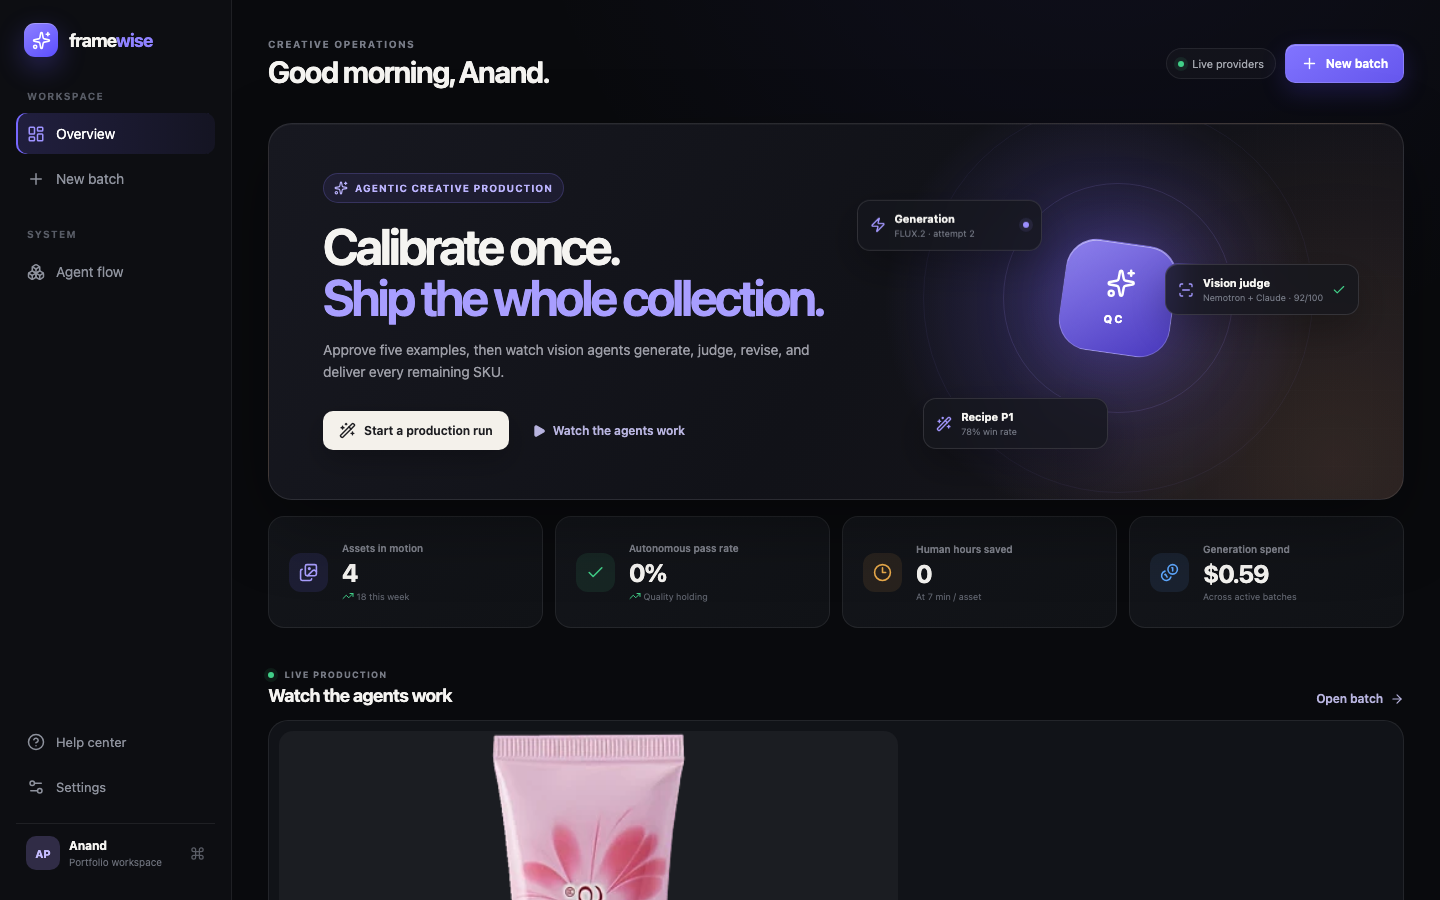
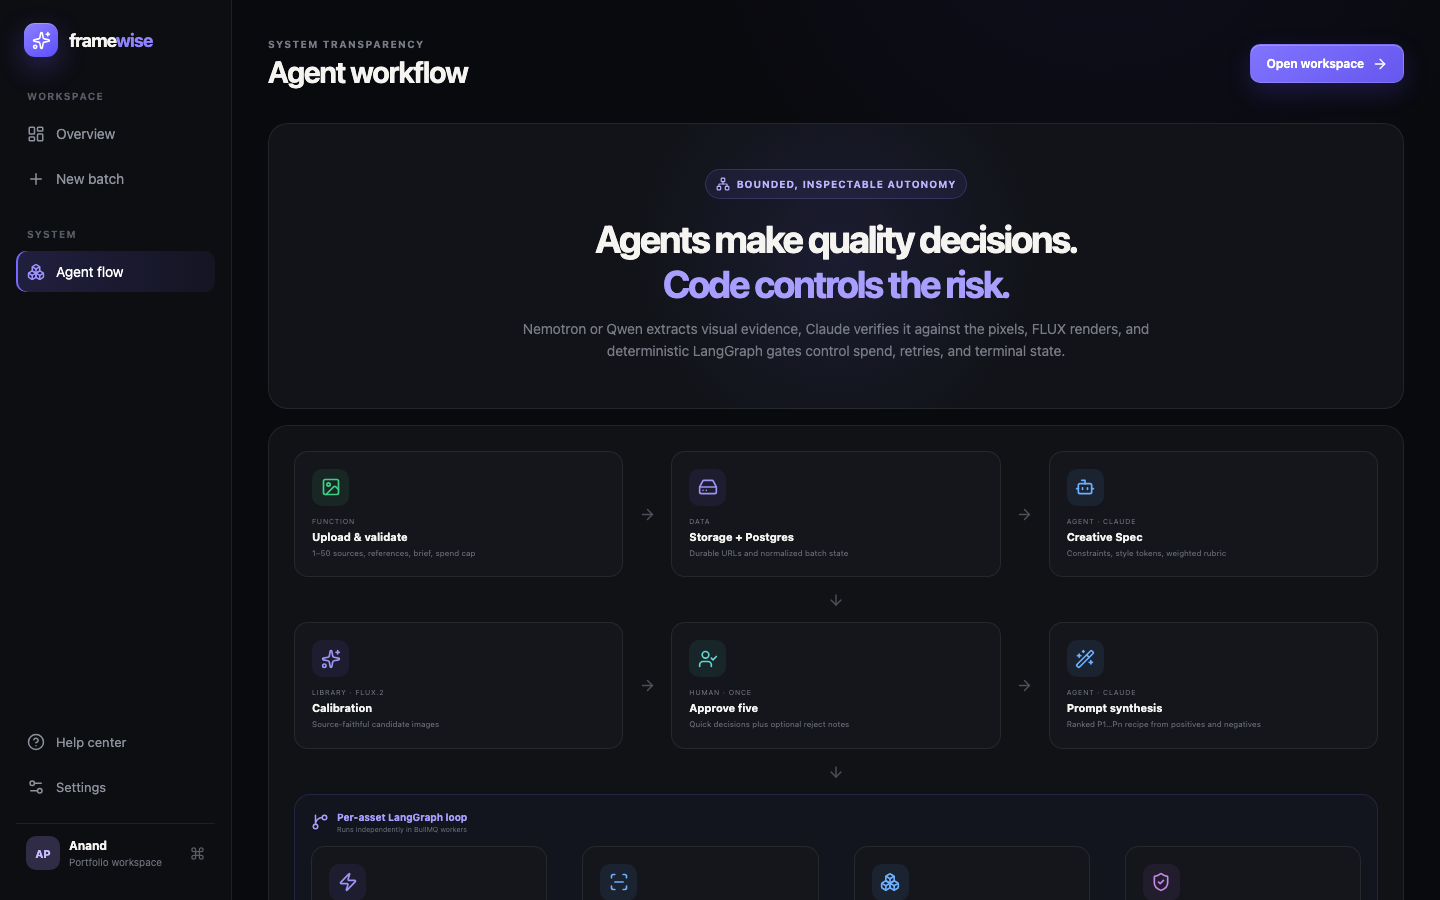
Projects v2: ALS first, repo-grounded copy for all cards, new screenshots, Jhalak live

diff --git a/index.html b/index.html
@@ -395,23 +395,34 @@ footer{border-top:1px solid var(--line);padding:44px 0 56px;margin-top:20px}
   <div class="proj-grid">
 
     <div class="proj">
+      <div class="shot"><img src="assets/shots/agentic-learning-studio.png" alt="Agentic Learning Studio — interactive mental-map lesson view" loading="lazy"><span class="live-dot">LIVE</span></div>
+      <div class="proj-body">
+        <h3>Agentic Learning Studio</h3>
+        <div class="role">Multi-Agent RAG Engine for Interactive AI Lessons</div>
+        <p>Replaces video courses with zoomable "mental map" lessons on agentic AI — 146 free interactive lessons and counting — generated by a LangGraph pipeline (profiler → retriever → architect → composer) over tiered Claude models. The model emits only Zod-validated blueprint JSON while a deterministic renderer produces all HTML, grounded in a Supabase pgvector store with hybrid retrieval and rank fusion. Runs as a real business: credit metering, Lemon Squeezy checkout with HMAC-verified webhooks, Langfuse tracing and self-healing lesson builds.</p>
+        <div class="tags"><span class="tag">LangGraph</span><span class="tag">pgvector RAG</span><span class="tag">Tiered Claude models</span><span class="tag">Langfuse</span></div>
+        <div class="proj-links"><a class="plink" href="https://agentic-learning-studio.onrender.com" target="_blank" rel="noopener">Visit live <svg viewBox="0 0 24 24"><path d="M7 17 17 7M7 7h10v10"/></svg></a></div>
+      </div>
+    </div>
+
+    <div class="proj">
       <div class="shot"><img src="assets/shots/geo-radar-mcp.png" alt="GetCited — AI visibility platform screenshot" loading="lazy"><span class="live-dot">LIVE</span></div>
       <div class="proj-body">
         <h3>GetCited</h3>
-        <div class="role">AI Visibility (GEO) Platform + MCP Server</div>
-        <p>Measures a brand's visibility across AI answer engines — a real multi-LLM panel (Claude, Perplexity, Gemini/Llama-class) reports share of voice, citation share and sentiment against the questions buyers actually ask. Then turns the numbers into a costed, trackable action plan with confidence-rated projections. Ships its own MCP server so agents can query it directly.</p>
-        <div class="tags"><span class="tag">Multi-LLM panel</span><span class="tag">Evals</span><span class="tag">MCP server</span><span class="tag">Next.js</span></div>
+        <div class="role">Agentic GEO Platform — AI Citation Radar to Costed Plans</div>
+        <p>Benchmarks whether AI assistants (Claude, Perplexity, Gemini, Groq) recommend and cite a brand, then converts the gap into a costed, committed action plan — a greedy-knapsack allocator matches tactics to real budget and person-hours, grounded in crawled competitor-citation evidence. Runs three ways: a streaming agent chat with tool calls, a self-hosted-OAuth MCP connector installable straight into claude.ai, and BYOK self-serve with AES-GCM key storage — all with per-run cost caps and DOCX/PDF/Excel plan exports.</p>
+        <div class="tags"><span class="tag">Multi-LLM panel</span><span class="tag">MCP + OAuth</span><span class="tag">Vercel AI SDK</span><span class="tag">Next.js + Supabase</span></div>
         <div class="proj-links"><a class="plink" href="https://geo-radar-mcp.onrender.com" target="_blank" rel="noopener">Visit live <svg viewBox="0 0 24 24"><path d="M7 17 17 7M7 7h10v10"/></svg></a></div>
       </div>
     </div>
 
     <div class="proj">
-      <div class="shot"><img src="assets/shots/creative-qc-agent.png" alt="Framewise — agentic creative production screenshot" loading="lazy"><span class="live-dot">LIVE</span></div>
+      <div class="shot"><img src="assets/shots/creative-qc-agent.png" alt="Framewise — agent workflow architecture view" loading="lazy"><span class="live-dot">LIVE</span></div>
       <div class="proj-body">
         <h3>Framewise</h3>
-        <div class="role">Agentic Creative Production at Scale</div>
-        <p>"Calibrate once, ship the whole collection." Approve five example creatives, then vision agents generate, judge, revise and deliver every remaining SKU — a generation model paired with an LLM-as-judge QC loop (vision scoring per attempt), backed by a background worker for batch runs. Tracks autonomous pass rate, human hours saved and generation spend per batch.</p>
-        <div class="tags"><span class="tag">Vision agents</span><span class="tag">LLM-as-judge</span><span class="tag">Batch worker</span><span class="tag">Image gen</span></div>
+        <div class="role">Self-QCing AI Image Production with a Human Calibration Gate</div>
+        <p>Approve five calibration examples once; Claude synthesizes the recipe and a bounded LangGraph loop drives FLUX.2 to generate, revise, accept or escalate every remaining asset — VLM evidence is cross-checked against source pixels, and deterministic code is the only pass/fail and spend authority. Defense-in-depth engineering: per-asset and per-batch cost caps, model fallback with a circuit breaker, BullMQ retries with a dead-letter queue, durable Postgres state — validated by a real production run that stopped itself correctly at its spend cap.</p>
+        <div class="tags"><span class="tag">LangGraph</span><span class="tag">LLM-as-judge</span><span class="tag">fal.ai FLUX.2</span><span class="tag">BullMQ + Postgres</span></div>
         <div class="proj-links"><a class="plink" href="https://creative-qc-agent.onrender.com" target="_blank" rel="noopener">Visit live <svg viewBox="0 0 24 24"><path d="M7 17 17 7M7 7h10v10"/></svg></a></div>
       </div>
     </div>
@@ -420,54 +431,43 @@ footer{border-top:1px solid var(--line);padding:44px 0 56px;margin-top:20px}
       <div class="shot"><img src="assets/shots/blindspot-dashboard.png" alt="Blindspot — eval-gated model and cost layer screenshot" loading="lazy"><span class="live-dot">LIVE</span></div>
       <div class="proj-body">
         <h3>Blindspot</h3>
-        <div class="role">Eval-Gated Model &amp; Cost Layer for AI Agents</div>
-        <p>A gateway + dashboard that sits between your AI agents and model providers: routes calls, gates model choices behind evals, and gives teams a single view of quality and spend. Two services in production — an API gateway and an ops dashboard with project-key auth.</p>
-        <div class="tags"><span class="tag">LLM gateway</span><span class="tag">Eval gating</span><span class="tag">Cost observability</span></div>
+        <div class="role">Eval-Gated Model Routing &amp; Cost Governance for AI Agents</div>
+        <p>Gateways route on price and eval tools only observe — Blindspot makes the eval result gate the routing decision. A TypeScript SDK streams span telemetry from live agents, every model call-site gets a user-owned golden set, and budget-capped LLM-as-judge evals with reproducible stratified sampling produce evidence-backed swap recommendations a human must approve — never a silent model switch. A Turborepo monorepo (Hono OpenAI-compatible gateway, Next.js dashboard, BullMQ worker, Drizzle/Postgres) running an invite-only hosted beta with a real production app connected.</p>
+        <div class="tags"><span class="tag">LLM evals</span><span class="tag">Model routing</span><span class="tag">LLM-as-judge</span><span class="tag">TypeScript monorepo</span></div>
         <div class="proj-links"><a class="plink" href="https://blindspot-dashboard.onrender.com" target="_blank" rel="noopener">Visit live <svg viewBox="0 0 24 24"><path d="M7 17 17 7M7 7h10v10"/></svg></a></div>
       </div>
     </div>
 
     <div class="proj">
-      <div class="shot"><img src="assets/shots/agentic-learning-studio.png" alt="Agentic Learning Studio screenshot" loading="lazy"><span class="live-dot">LIVE</span></div>
-      <div class="proj-body">
-        <h3>Agentic Learning Studio</h3>
-        <div class="role">AI Lesson Builder → Interactive Lessons</div>
-        <p>Turns any topic into a self-contained interactive lesson — a side-by-side builder where you refine the overview while agents generate mental maps, worked explanations and knowledge checks. Grew out of my public Claude skill of the same name; now a hosted product in beta.</p>
-        <div class="tags"><span class="tag">Agentic generation</span><span class="tag">EdTech</span><span class="tag">Interactive HTML</span></div>
-        <div class="proj-links"><a class="plink" href="https://agentic-learning-studio.onrender.com" target="_blank" rel="noopener">Visit live <svg viewBox="0 0 24 24"><path d="M7 17 17 7M7 7h10v10"/></svg></a></div>
-      </div>
-    </div>
-
-    <div class="proj">
-      <div class="shot"><img src="assets/shots/prism-v1.png" alt="Prism — private developer workspace screenshot" loading="lazy"><span class="live-dot">LIVE</span></div>
+      <div class="shot"><img src="assets/shots/prism-v1.png" alt="Prism — Claude Code ROI index screenshot" loading="lazy"><span class="live-dot">LIVE</span></div>
       <div class="proj-body">
         <h3>Prism</h3>
-        <div class="role">Private Developer Workspace for Coding Agents</div>
-        <p>Lets teams connect coding agents (Claude Code, Codex) to a shared workspace without sharing source code — one-time personal commands, passwordless magic-link auth, prompts and source stay local. Built for the reality that agent adoption stalls on trust, not capability.</p>
-        <div class="tags"><span class="tag">Claude Code / Codex</span><span class="tag">Supabase auth</span><span class="tag">DevTools</span></div>
+        <div class="role">Deterministic ROI Index for Claude Code Engineering Spend</div>
+        <p>Scores the ROI of Claude Code spend across an engineering org: an LLM-free engine distills GitHub PRs, Claude Code sessions and Sentry signals into two 0–100 indexes — outcomes and practices — via a within-person linkage engine and confidence-laddered AI-to-PR attribution. A hard determinism boundary keeps LLMs out of the math; on top sits a grounded coaching agent whose every number is validated against an assembled facts block before it reaches the user. Next.js 15 + Supabase monorepo with a versioned per-KPI weight editor, daily Inngest pipeline, GitHub App connector and 288 tests.</p>
+        <div class="tags"><span class="tag">Deterministic scoring</span><span class="tag">Next.js 15 + Supabase</span><span class="tag">Anthropic SDK</span><span class="tag">Inngest</span></div>
         <div class="proj-links"><a class="plink" href="https://prism-v1.onrender.com" target="_blank" rel="noopener">Visit live <svg viewBox="0 0 24 24"><path d="M7 17 17 7M7 7h10v10"/></svg></a></div>
       </div>
     </div>
 
     <div class="proj">
-      <div class="shot"><img src="assets/shots/gstpilot.png" alt="GSTPilot screenshot" loading="lazy"><span class="live-dot">LIVE</span></div>
+      <div class="shot"><img src="assets/shots/gstpilot.png" alt="GSTPilot chat interface screenshot" loading="lazy"><span class="live-dot">LIVE</span></div>
       <div class="proj-body">
         <h3>GSTPilot</h3>
-        <div class="role">RAG Assistant for Indian GST — "Answers with the Law Attached"</div>
-        <p>A Hinglish-first GST question-answering assistant for small businesses — every answer cites the underlying provision, and the product is explicit about where an assistant should stop and a Chartered Accountant should start. Email-only login, memory of past questions.</p>
-        <div class="tags"><span class="tag">RAG</span><span class="tag">Citations-first</span><span class="tag">Vernacular UX</span></div>
+        <div class="role">Eval-Gated Legal RAG Agent for Indian GST</div>
+        <p>Every legal claim must cite an exact section or notification — a deterministic citation-verification gate forces honest abstention over hallucination, and high-stakes notices escalate to a human Chartered Accountant. Under the hood: a 410-document corpus of live GST law with hybrid retrieval (bge-m3 dense vectors + IDF keyword search + rank fusion on pgvector), Claude-powered lanes with deterministic in-code calculators, and per-user memory with confidence decay. A 60-case golden eval suite with pass^5 consistency scoring and Langfuse tracing gates every change.</p>
+        <div class="tags"><span class="tag">Legal RAG</span><span class="tag">Hybrid retrieval</span><span class="tag">Eval-gated CI</span><span class="tag">Claude + Langfuse</span></div>
         <div class="proj-links"><a class="plink" href="https://gstpilot.onrender.com" target="_blank" rel="noopener">Visit live <svg viewBox="0 0 24 24"><path d="M7 17 17 7M7 7h10v10"/></svg></a></div>
       </div>
     </div>
 
     <div class="proj">
-      <div class="shot placeholder"><span>Jhalak</span></div>
+      <div class="shot"><img src="assets/shots/jhalak-p178.png" alt="Jhalak — AI website builder for Indian MSMEs" loading="lazy"><span class="live-dot">LIVE</span></div>
       <div class="proj-body">
         <h3>Jhalak</h3>
-        <div class="role">AI Storefront for Indian MSMEs</div>
-        <p>Gives a small business a complete online presence in one pass — website, product catalogue and AI-generated promo reels — built on media-generation APIs. First cut shipped and deployed on Render; currently offline pending an API-token refresh.</p>
-        <div class="tags"><span class="tag">Media generation</span><span class="tag">MSME</span><span class="tag">Full-stack</span></div>
-        <div class="proj-links"><span class="plink" style="color:var(--faint)">Temporarily offline</span></div>
+        <div class="role">AI Website, Catalogue &amp; Reels Engine for Indian MSMEs</div>
+        <p>A "Shopify super-light" for relationship-led small businesses: phone photos plus three Hinglish voice-answered questions become a live multi-tenant website, AI-polished catalogue and Instagram reels — enquiry-first via WhatsApp, no checkout friction. Claude writes the copy and vision-based product descriptions; an import-and-enhance pipeline rebuilds an owner's old site through an SSRF-guarded fetcher with budget-capped fal.ai imagery. The Studio editor is a tool-calling agent with click-to-select visual editing, hardened by an adversarial FMEA pass.</p>
+        <div class="tags"><span class="tag">Multi-tenant SaaS</span><span class="tag">Claude vision</span><span class="tag">fal.ai</span><span class="tag">Next.js 16</span></div>
+        <div class="proj-links"><a class="plink" href="https://jhalak-p178.onrender.com" target="_blank" rel="noopener">Visit live <svg viewBox="0 0 24 24"><path d="M7 17 17 7M7 7h10v10"/></svg></a></div>
       </div>
     </div>
 
@@ -475,9 +475,9 @@ footer{border-top:1px solid var(--line);padding:44px 0 56px;margin-top:20px}
       <div class="shot"><img src="assets/shots/tejas-corporation-website.png" alt="Tejas Corporation website screenshot" loading="lazy"><span class="live-dot">LIVE</span></div>
       <div class="proj-body">
         <h3>Tejas Corporation</h3>
-        <div class="role">Client Work — Manufacturing Business Website</div>
-        <p>A production website for a PET preform conveyor-systems manufacturer — positioning, copy, design and deployment handled end-to-end. Proof that the same AI-first build pipeline works for real small-business clients, not just software products.</p>
-        <div class="tags"><span class="tag">Client delivery</span><span class="tag">B2B manufacturing</span></div>
+        <div class="role">Zero-Backend Lead-Gen Site for a PET Machinery Manufacturer</div>
+        <p>A production lead-gen website for a Jaipur manufacturer of preform conveyor systems for PET bottle lines — React + Vite SPA on Render's free static tier, quote requests straight to the owner's inbox via serverless forms, and a password-gated admin panel with client-side image compression so a non-technical owner can add products themselves. Per-page SEO meta plus a build-time llms.txt make the catalog readable to search engines and AI crawlers alike.</p>
+        <div class="tags"><span class="tag">React + Vite</span><span class="tag">Zero hosting cost</span><span class="tag">llms.txt GEO</span><span class="tag">Client work</span></div>
         <div class="proj-links"><a class="plink" href="https://tejas-corporation-website.onrender.com" target="_blank" rel="noopener">Visit live <svg viewBox="0 0 24 24"><path d="M7 17 17 7M7 7h10v10"/></svg></a></div>
       </div>
     </div>
